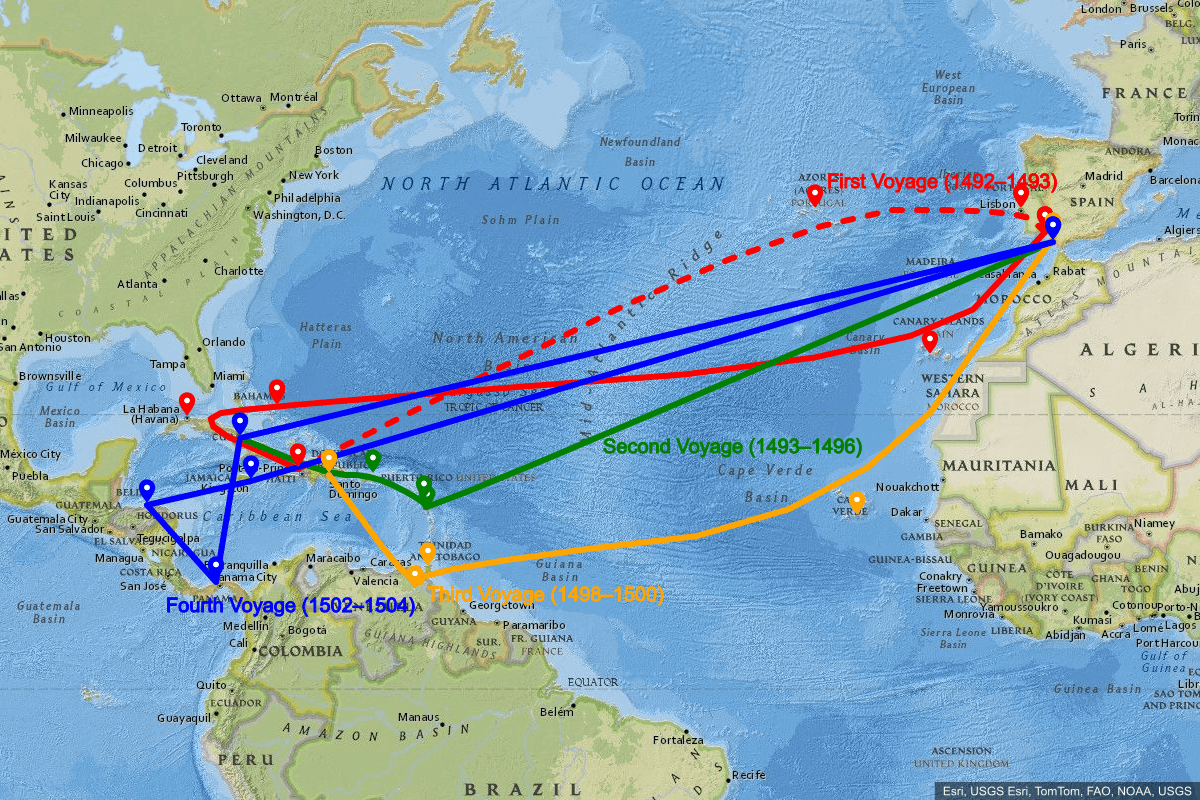
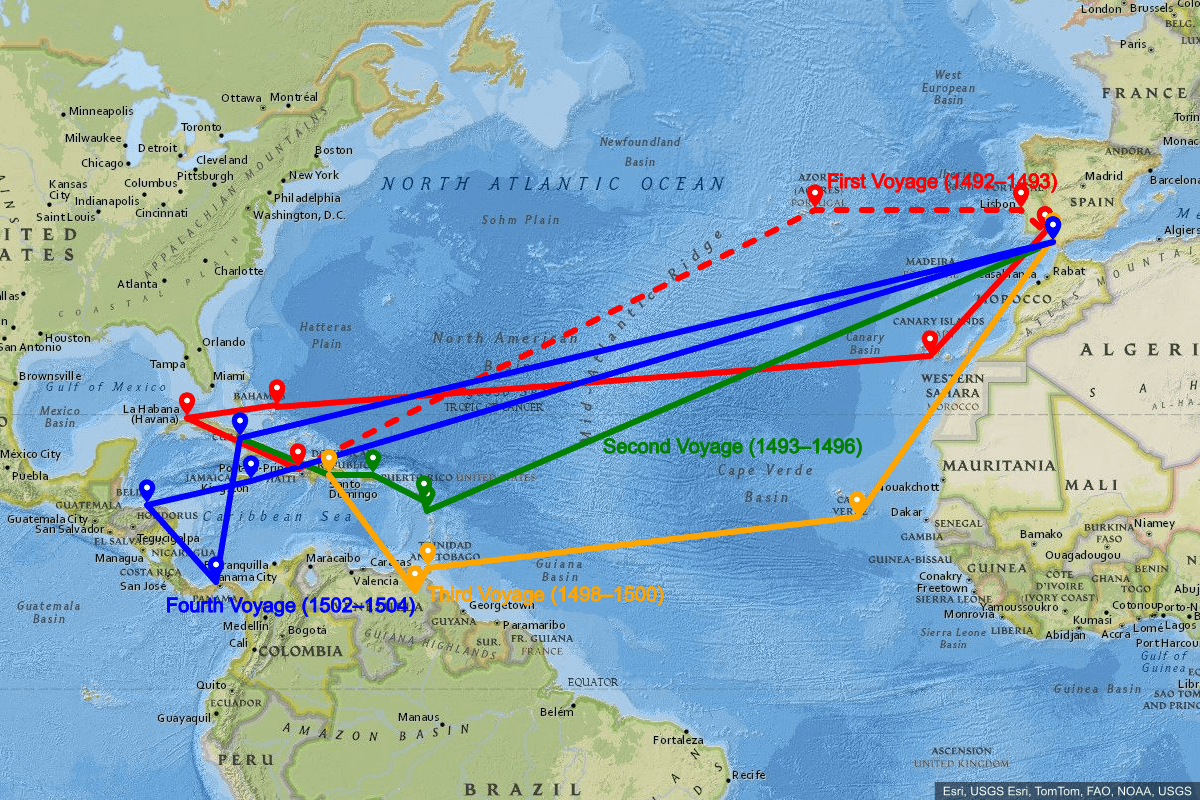
Fix line smoothing logic to apply only for polylines with exactly two points
- Do not smooth polygons
- Apply smoothing (Douglas-Peucker + Chaikin) only when polyline has exactly two coordinates
- Use raw coordinates for polylines with more than two points to avoid over-smoothing

diff --git a/src/staticmaps/staticmaps.ts b/src/staticmaps/staticmaps.ts
@@ -581,16 +581,21 @@ class StaticMaps {
 
     let pointsToUse: Coordinate[]
 
-    if (line.type === "polygon") {
-      // No smoothing for polygons!
-      pointsToUse = rawPixels
-    } else {
-      // Smooth only middle points of polylines
+  if (line.type === "polygon") {
+    // No smoothing for polygons!
+    pointsToUse = rawPixels
+  } else {
+    if (rawPixels.length === 2) {
+      // Exactly two points -> smoothing
+      // Smooth only middle points of polylines with more than two points
       const simplified = douglasPeucker(rawPixels, 2)
       const smoothedPoints = chaikinSmooth(simplified as Coordinate[], 2)
 
       pointsToUse = [...smoothedPoints]
+    } else {
+      pointsToUse = rawPixels
     }
+  }
 
     const d =
       `M${pointsToUse[0][0]},${pointsToUse[0][1]} ` +

diff --git a/README.md b/README.md
@@ -219,14 +219,14 @@ Note: Polylines with only two coordinates are rendered as geodesic line.
 
 <details>
   <summary>Regular Coordinates example with <code>no zoom</code>, <code>weight:6</code>, <code>color:0000ff</code></summary>
-  <p>http://localhost:3000/api/staticmaps?width=1200&height=800&zoom=4&format=png&basemap=national-geographic&polyline=weight:6|color:red|37.2159,-7.0050|28.0997,-17.1092|24.0617,-74.4767|24.2000,-74.5000|23.1167,-82.3833|19.0000,-72.7000</p>
+  <p>http://localhost:3000/api/staticmaps?width=1200&height=800&format=png&basemap=national-geographic&polyline=weight:6|color:red|37.2159,-7.0050|28.0997,-17.1092|24.0617,-74.4767|24.2000,-74.5000|23.1167,-82.3833|19.0000,-72.7000</p>
 </details>
 
 ![Regular Coordinates Example](https://raw.githubusercontent.com/dietrichmax/docker-staticmaps/refs/heads/main/examples/polylinepath.png)
 
 <details>
   <summary>Multiple Encoded Polylines</summary>
-  <p>http://localhost:3000/api/staticmaps?width=1200&height=800&zoom=4&format=png&basemap=national-geographic&polyline=weight:6|color:red|kvcbFfdwi@fosv@fnt|@ntsWzqc}Ik_ZrpCrqrErubo@j`cXsgbz@&polyline=weight:6|color:red|strokeDasharray:10,15|_}}rB~evzLs}iwBseqtG?_{jmBfddHc~_L</p>
+  <p>http://localhost:3000/api/staticmaps?width=1200&height=800&format=png&basemap=national-geographic&polyline=weight:6|color:red|kvcbFfdwi@fosv@fnt|@ntsWzqc}Ik_ZrpCrqrErubo@j`cXsgbz@&polyline=weight:6|color:red|strokeDasharray:10,15|_}}rB~evzLs}iwBseqtG?_{jmBfddHc~_L</p>
 </details>
 
 ![Multiple Encoded Polylines Example](https://raw.githubusercontent.com/dietrichmax/docker-staticmaps/refs/heads/main/examples/multipleEncodedPolylines.png)
